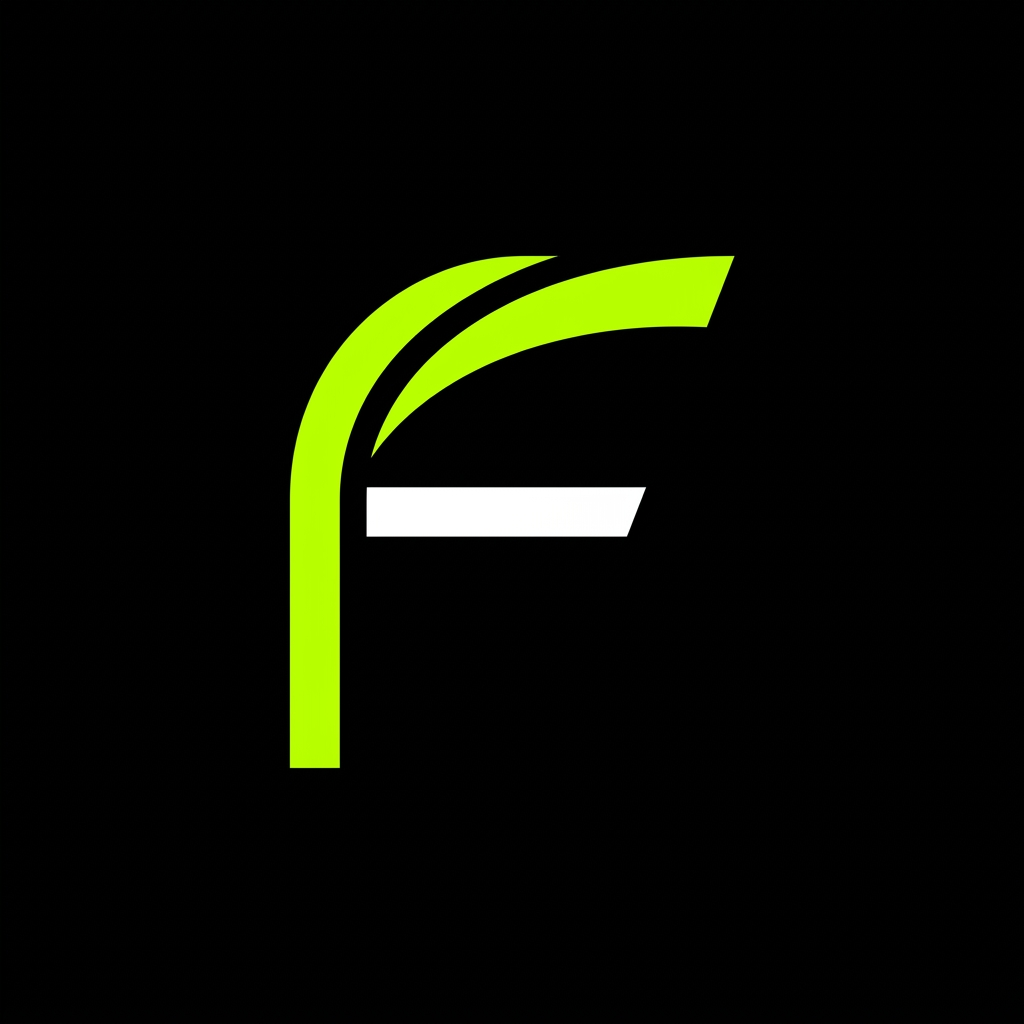
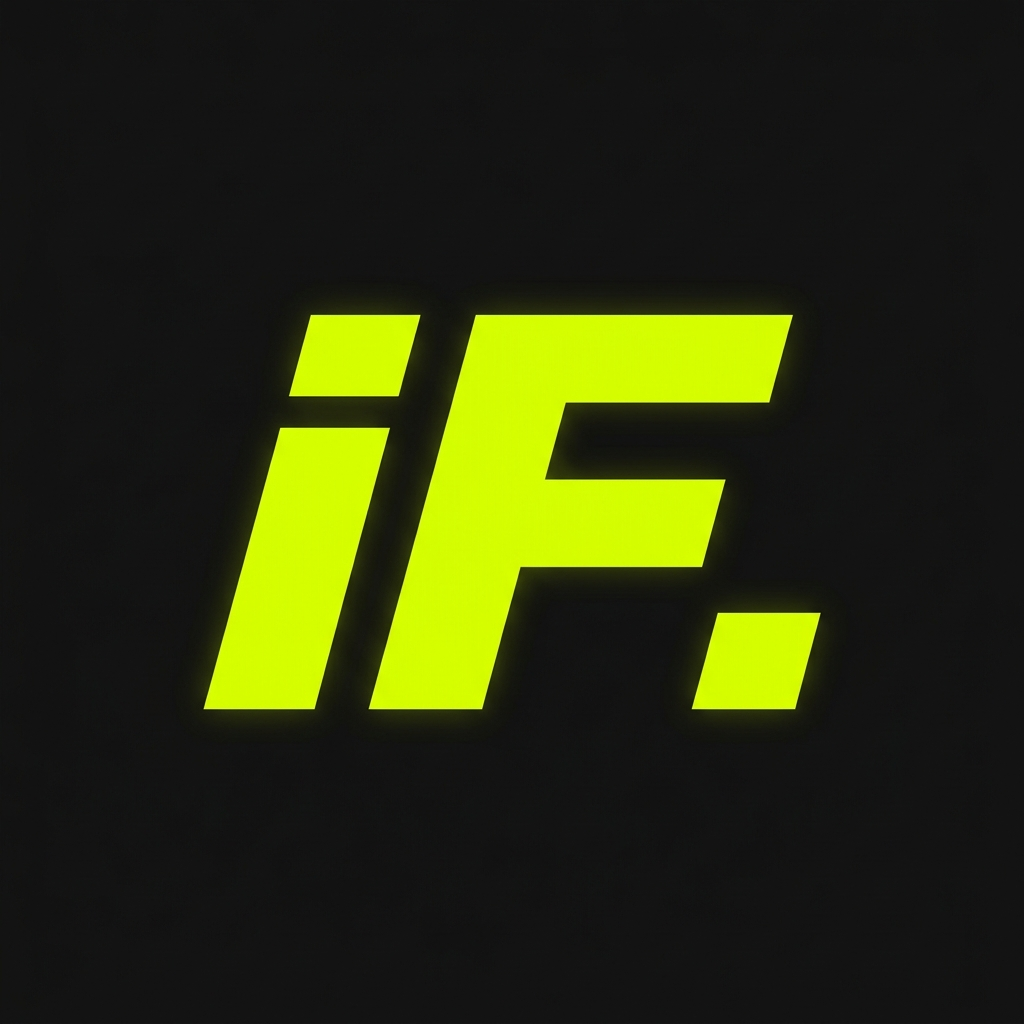
zap 3

Changed region(s): [[0.1875, 0.25, 0.8125, 0.75]]

diff --git a/src/components/Navbar.jsx b/src/components/Navbar.jsx
@@ -15,6 +15,15 @@ const Navbar = () => {
   const [isSearchOpen, setIsSearchOpen] = React.useState(false);
   const [searchQuery, setSearchQuery] = React.useState('');
   const [suggestions, setSuggestions] = React.useState([]);
+  const [scrolled, setScrolled] = React.useState(false);
+
+  React.useEffect(() => {
+    const handleScroll = () => {
+      setScrolled(window.scrollY > 50);
+    };
+    window.addEventListener('scroll', handleScroll);
+    return () => window.removeEventListener('scroll', handleScroll);
+  }, []);
 
   const [waNumber, setWaNumber] = React.useState('5584991847739');
 
@@ -75,14 +84,22 @@ const Navbar = () => {
 
       {/* BARRA 2: MAIN HEADER (SEARCH | LOGO | ACTIONS) */}
       <nav className="glass-panel" style={{
-        position: 'sticky', top: 0, zIndex: 100, borderBottom: '1px solid var(--border-color)', padding: '0.6rem 0'
+        position: 'sticky', 
+        top: 0, 
+        zIndex: 100, 
+        borderBottom: '1px solid var(--border-color)', 
+        padding: scrolled ? '0.2rem 0' : '0.6rem 0',
+        transition: 'all 0.3s cubic-bezier(0.4, 0, 0.2, 1)',
+        backdropFilter: 'blur(20px)',
+        background: scrolled ? 'rgba(0,0,0,0.85)' : 'rgba(13,13,20,0.8)'
       }}>
         <div className="container" style={{ 
           display: 'grid', 
           gridTemplateColumns: '1fr auto 1fr', 
           alignItems: 'center',
           gap: '0.2rem',
-          padding: '0 0.75rem' // Reduzido de 1.5rem para caber tudo no mobile
+          padding: '0 0.75rem',
+          transition: 'min-height 0.3s'
         }}>
           
           {/* Coluna Esquerda (3 Itens): Menu + WhatsApp + Login */}
@@ -141,11 +158,13 @@ const Navbar = () => {
               display: 'flex', 
               alignItems: 'center', 
               fontWeight: 900, 
-              fontSize: window.innerWidth < 500 ? '1.7rem' : '2.2rem', 
+              fontSize: window.innerWidth < 500 
+                ? (scrolled ? '1.3rem' : '1.7rem') 
+                : (scrolled ? '1.6rem' : '2.2rem'), 
               fontFamily: 'var(--font-display)', 
               fontStyle: 'italic',
               letterSpacing: '-1.5px',
-              transition: 'transform 0.3s'
+              transition: 'all 0.3s cubic-bezier(0.4, 0, 0.2, 1)'
             }}
             onMouseOver={(e) => e.currentTarget.style.transform = 'scale(1.05)'}
             onMouseOut={(e) => e.currentTarget.style.transform = 'scale(1)'}
@@ -250,16 +269,23 @@ const Navbar = () => {
         </div>
 
         {/* BARRA 3: CATEGORY BAR (LINKS) */}
-        <div className="desktop-only" style={{ borderTop: '1px solid rgba(255,255,255,0.05)', marginTop: '1rem', paddingTop: '1rem' }}>
-          <div className="container" style={{ display: 'flex', gap: '2rem', justifyContent: 'center' }}>
-            <Link to="/" style={{ fontWeight: 600, fontSize: '0.85rem', textTransform: 'uppercase', letterSpacing: '1px', transition: 'color 0.2s', color: 'var(--text-main)' }}>{t('nav_home')}</Link>
-            <Link to="/colecao/selecoes" style={{ fontWeight: 600, fontSize: '0.85rem', textTransform: 'uppercase', letterSpacing: '1px', transition: 'color 0.2s', color: 'var(--text-main)' }}>{language === 'pt' ? 'Seleções' : 'National Teams'}</Link>
-            <Link to="/colecao/brasileirao" style={{ fontWeight: 600, fontSize: '0.85rem', textTransform: 'uppercase', letterSpacing: '1px', transition: 'color 0.2s', color: 'var(--text-main)' }}>{t('nav_br')}</Link>
-            <Link to="/colecao/internacionais" style={{ fontWeight: 600, fontSize: '0.85rem', textTransform: 'uppercase', letterSpacing: '1px', transition: 'color 0.2s', color: 'var(--text-main)' }}>{t('nav_intl')}</Link>
-            <Link to="/colecao/lancamentos" style={{ fontWeight: 600, fontSize: '0.85rem', textTransform: 'uppercase', letterSpacing: '1px', transition: 'color 0.2s', color: 'var(--accent-color)' }}>{language === 'pt' ? 'Lançamentos' : 'New Drops'} 🔥</Link>
-            <Link to="/colecao/retro" style={{ fontWeight: 600, fontSize: '0.85rem', textTransform: 'uppercase', letterSpacing: '1px', transition: 'color 0.2s', color: 'var(--text-main)' }}>{t('nav_retro')}</Link>
+        {!scrolled && (
+          <div className="desktop-only" style={{ 
+            borderTop: '1px solid rgba(255,255,255,0.05)', 
+            marginTop: '1rem', 
+            paddingTop: '1rem',
+            animation: 'fadeIn 0.3s ease-out'
+          }}>
+            <div className="container" style={{ display: 'flex', gap: '2rem', justifyContent: 'center' }}>
+              <Link to="/" style={{ fontWeight: 600, fontSize: '0.85rem', textTransform: 'uppercase', letterSpacing: '1px', transition: 'color 0.2s', color: 'var(--text-main)' }}>{t('nav_home')}</Link>
+              <Link to="/colecao/selecoes" style={{ fontWeight: 600, fontSize: '0.85rem', textTransform: 'uppercase', letterSpacing: '1px', transition: 'color 0.2s', color: 'var(--text-main)' }}>{language === 'pt' ? 'Seleções' : 'National Teams'}</Link>
+              <Link to="/colecao/brasileirao" style={{ fontWeight: 600, fontSize: '0.85rem', textTransform: 'uppercase', letterSpacing: '1px', transition: 'color 0.2s', color: 'var(--text-main)' }}>{t('nav_br')}</Link>
+              <Link to="/colecao/internacionais" style={{ fontWeight: 600, fontSize: '0.85rem', textTransform: 'uppercase', letterSpacing: '1px', transition: 'color 0.2s', color: 'var(--text-main)' }}>{t('nav_intl')}</Link>
+              <Link to="/colecao/lancamentos" style={{ fontWeight: 600, fontSize: '0.85rem', textTransform: 'uppercase', letterSpacing: '1px', transition: 'color 0.2s', color: 'var(--accent-color)' }}>{language === 'pt' ? 'Lançamentos' : 'New Drops'} 🔥</Link>
+              <Link to="/colecao/retro" style={{ fontWeight: 600, fontSize: '0.85rem', textTransform: 'uppercase', letterSpacing: '1px', transition: 'color 0.2s', color: 'var(--text-main)' }}>{t('nav_retro')}</Link>
+            </div>
           </div>
-        </div>
+        )}
 
         <style>{`
           .desktop-only { display: none !important; }